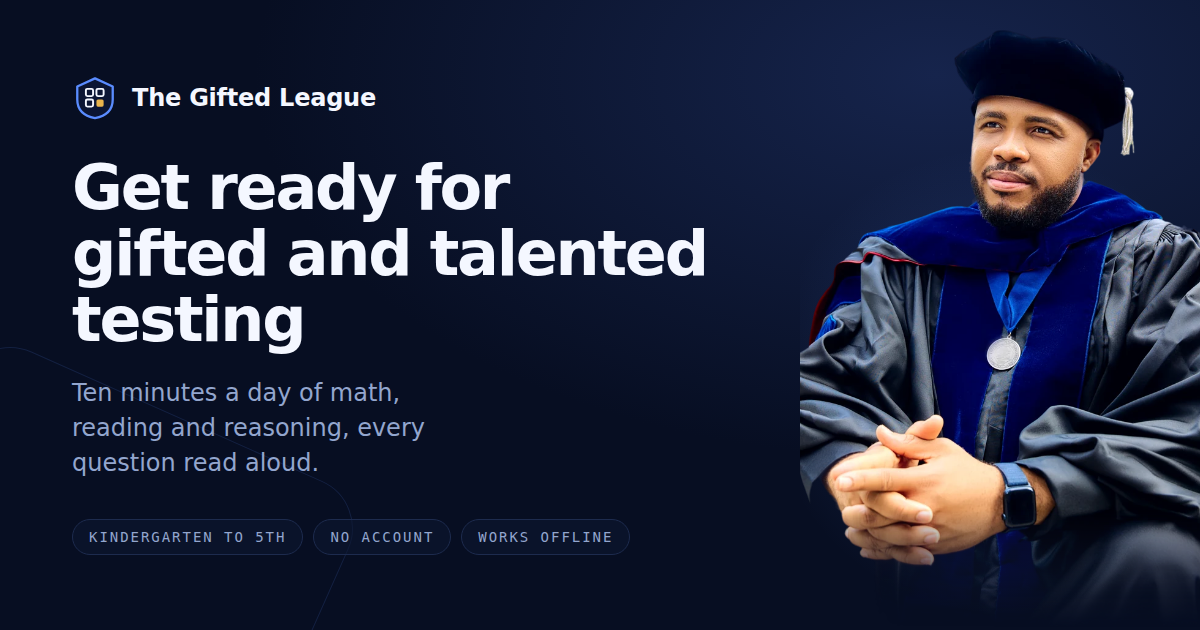
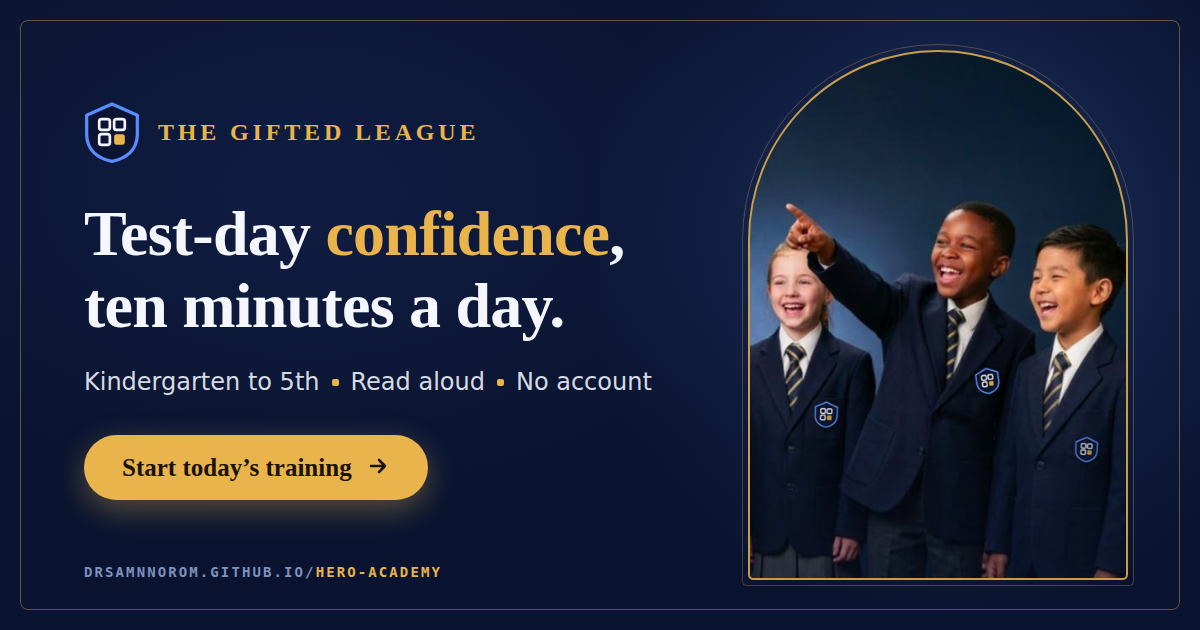
Landing page centred to the pixel, new share card (v12)

diff --git a/index.html b/index.html
@@ -19,7 +19,7 @@
 <meta property="og:image" content="https://drsamnnorom.github.io/hero-academy/og-image.png">
 <meta property="og:image:width" content="1200">
 <meta property="og:image:height" content="630">
-<meta property="og:image:alt" content="The Gifted League crest beside Dr Sam, founder, in doctoral regalia">
+<meta property="og:image:alt" content="Five joyful scholars in League uniform beneath the glowing crest of The Gifted League">
 <meta property="og:url" content="https://drsamnnorom.github.io/hero-academy/">
 <meta name="twitter:card" content="summary_large_image">
 <meta name="twitter:title" content="The Gifted League: get ready for gifted and talented testing">
@@ -168,18 +168,18 @@
     22%{opacity:1;transform:translateY(0) scale(1.12)}
     27%,84%{opacity:1;transform:translateY(0) scale(1)}
     92%,100%{opacity:0;transform:translateY(-26px) scale(.5)}}
-  .lg3-cap{position:absolute;left:50%;transform:translateX(-50%);bottom:-20px;white-space:nowrap;
+  .lg3-cap{position:absolute;left:50%;transform:translateX(-50%);bottom:-20px;white-space:nowrap;padding-left:2.5px;
     font:600 10px/1 var(--lg-mono);letter-spacing:.16em;color:#8DA0C8;text-transform:uppercase;}
   .lg3-word{font:900 clamp(29px,8.6vw,70px)/1.02 system-ui;letter-spacing:-.035em;
     white-space:nowrap;color:var(--lg-paper);text-shadow:0 2px 40px rgba(90,140,255,.35);
     animation:lg3rise .7s .25s cubic-bezier(.2,1,.3,1) both;margin:0;}
-  .lg3-line{margin:16px 0 0;font:600 11.5px/1.6 var(--lg-mono);letter-spacing:.26em;
+  .lg3-line{margin:16px 0 0;padding-left:2.5px;font:600 11.5px/1.6 var(--lg-mono);letter-spacing:.26em;
     text-transform:uppercase;color:var(--lg-blue);
     animation:lg3rise .7s .4s cubic-bezier(.2,1,.3,1) both;}
   .lg3-promise{margin:40px 0 0;font:800 clamp(20px,4.8vw,27px)/1.32 system-ui;letter-spacing:-.015em;
     color:var(--lg-paper);animation:lg3rise .7s .55s cubic-bezier(.2,1,.3,1) both;}
   .lg3-promise em{font-style:normal;color:var(--lg-gold);}
-  .lg3-sub{margin:12px 0 0;max-width:46ch;font-size:15.5px;line-height:1.6;color:var(--lg-muted);
+  .lg3-sub{margin:12px 0 0;max-width:46ch;font-size:15.5px;line-height:1.6;color:var(--lg-muted);text-wrap:balance;
     animation:lg3rise .7s .68s cubic-bezier(.2,1,.3,1) both;}
   .lg3-sub b{color:var(--lg-paper);font-weight:600;}
   @keyframes lg3rise{from{opacity:0;transform:translateY(16px)}to{opacity:1;transform:none}}
@@ -193,7 +193,7 @@
     background:linear-gradient(105deg,transparent 0%,rgba(255,255,255,.42) 50%,transparent 100%);
     animation:lg3sheen 6s 2.2s ease infinite;}
   @keyframes lg3sheen{0%{left:-60%}12%{left:130%}100%{left:130%}}
-  .lg-trust{margin:16px 0 0;font:600 10.5px/1.7 var(--lg-mono);letter-spacing:.18em;color:#8DA0C8;
+  .lg-trust{margin:16px 0 0;padding-left:2.5px;font:600 10.5px/1.7 var(--lg-mono);letter-spacing:.18em;color:#8DA0C8;
     text-transform:uppercase;animation:lg3rise .7s .9s cubic-bezier(.2,1,.3,1) both;}
   .lg-trust b{font-weight:600;padding:0 10px;white-space:nowrap;}
   .lg-alt{margin:14px 0 0;animation:lg3rise .7s .95s cubic-bezier(.2,1,.3,1) both;}
@@ -201,7 +201,7 @@
     font:600 13.5px system-ui;color:var(--lg-blue);border-bottom:1px solid rgba(90,140,255,.35);}
   .lg-alt button:hover{color:var(--lg-paper);}
   .lg3-grown{border-top:1px solid var(--lg-line);padding:16px 24px 20px;text-align:center;position:relative;}
-  .lg3-grown a{color:var(--lg-muted);text-decoration:none;font-size:13.5px;line-height:1.5;}
+  .lg3-grown a{color:var(--lg-muted);text-decoration:none;font-size:13.5px;line-height:1.5;text-wrap:balance;}
   .lg3-grown a b{color:var(--lg-blue);font-weight:600;}
   .lg3-grown a:hover b{text-decoration:underline;}
   @media (min-width:700px){ .lg3-puzzle{width:144px;height:144px} .lg3-sub{font-size:16.5px} .lg3-mb{display:none} }
@@ -739,9 +739,9 @@
         <p class="lg3-line">The training league for <br class="lg3-mb">gifted and talented testing</p>
 
         <p class="lg3-promise">Ten minutes a day.<br>A <em>hero</em> by test day.</p>
-        <p class="lg3-sub">Daily math, reading and reasoning missions inside <b>Dr Sam&rsquo;s Academy</b>,
-          for kindergarten to fifth grade. Every question is read aloud, so early readers
-          train all on their own.</p>
+        <p class="lg3-sub">Daily math, reading and reasoning missions for kindergarten
+          to fifth&nbsp;grade. Every question is read&nbsp;aloud, so early readers train
+          all on their own.</p>
 
         <button class="lg-cta" id="landGo">Start today&rsquo;s training</button>
         <p class="lg-trust" id="landTrust"><b>No account</b><b>No ads</b><b>Works offline</b></p>

diff --git a/sw.js b/sw.js
@@ -1,5 +1,5 @@
 /* Dr Sam's Academy service worker. Cache-first shell; bump CACHE_V per release. */
-const CACHE_V = 'drsam-k5-v11';
+const CACHE_V = 'drsam-k5-v12';
 const SHELL = ['./', './index.html', './manifest.json', './icon-192.png', './icon-512.png', './apple-touch-icon.png', './favicon-64.png', './favicon.svg'];
 self.addEventListener('install', e => {
   e.waitUntil(caches.open(CACHE_V).then(c => c.addAll(SHELL)).then(() => self.skipWaiting()));
